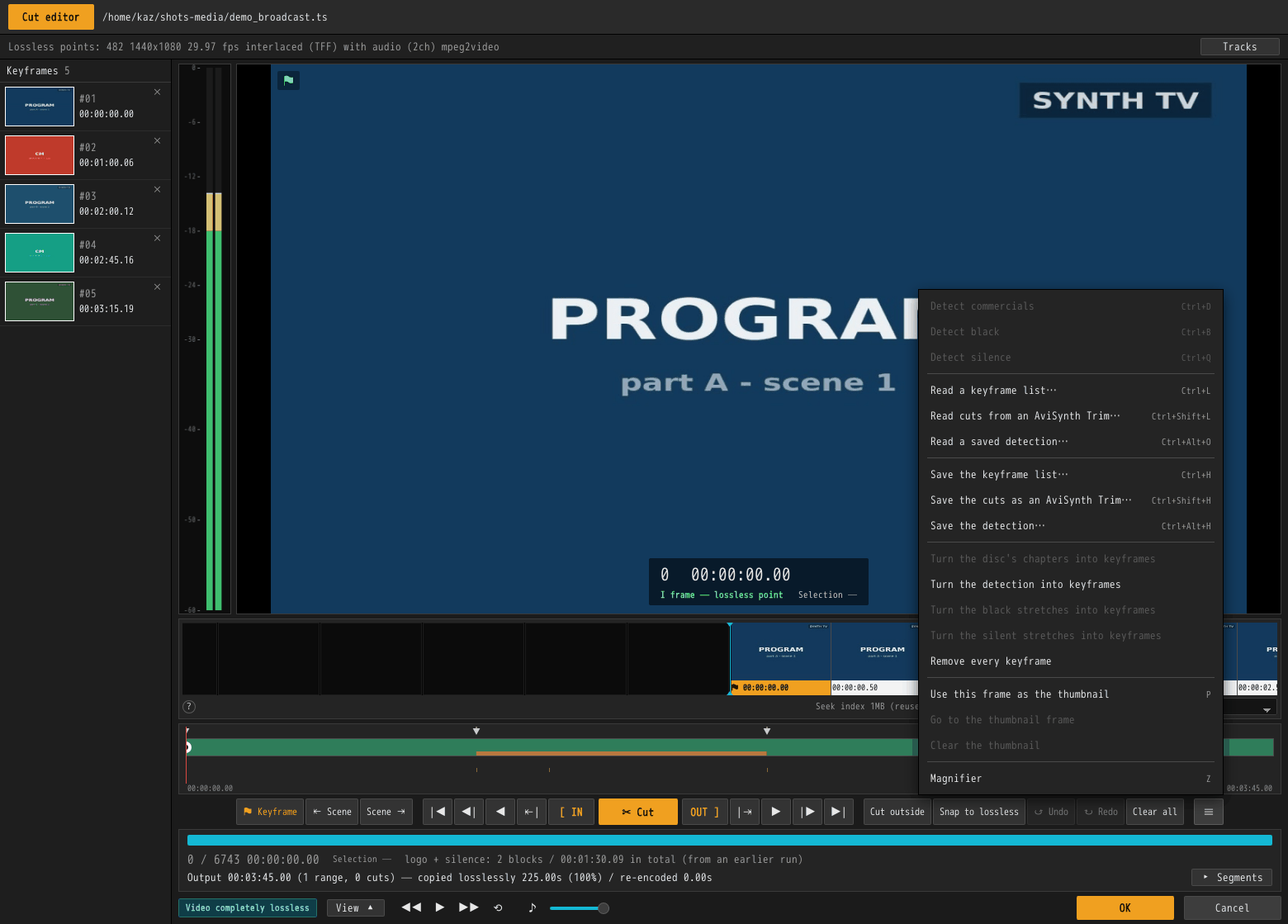
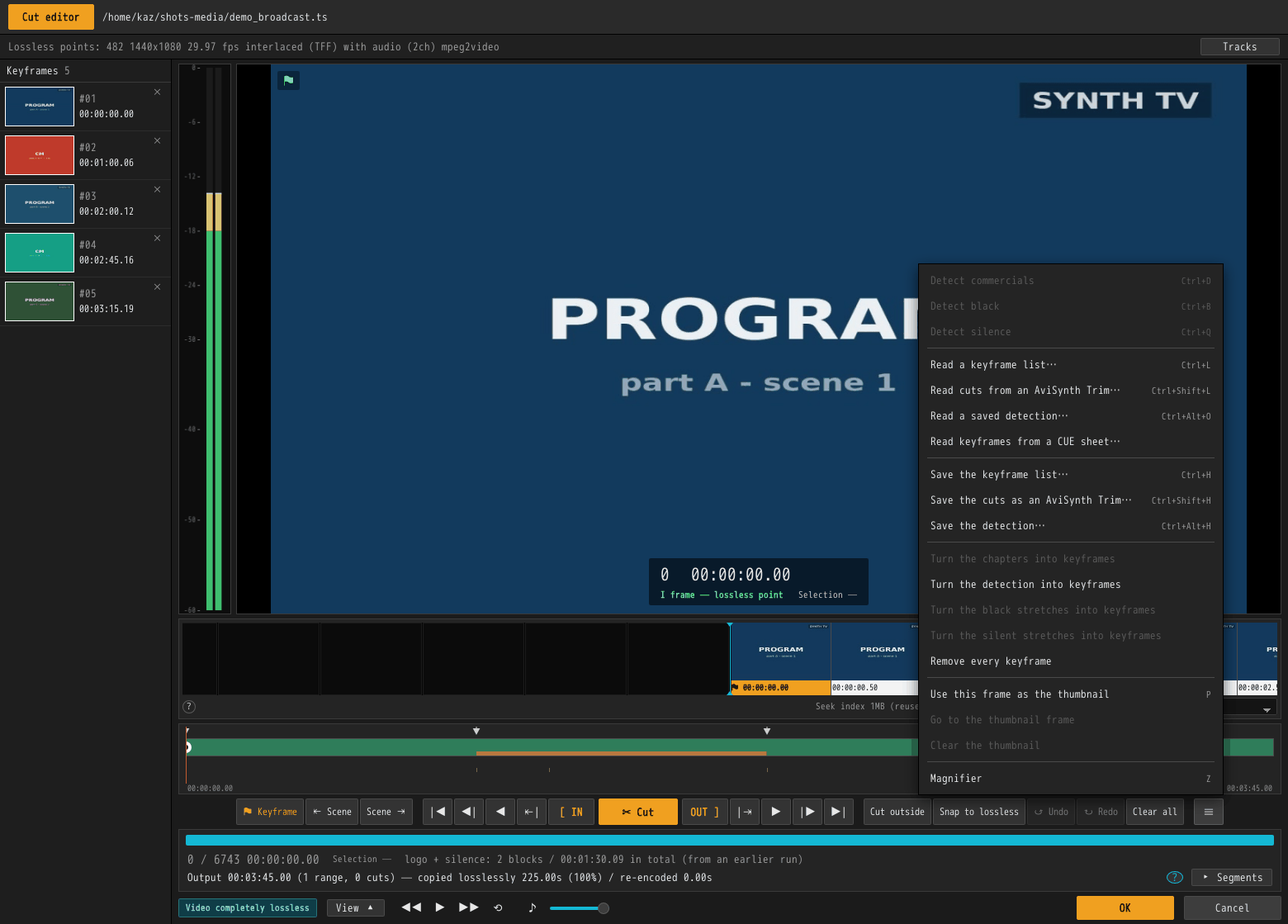
Put a file's own chapters down as marks, the way a disc's are
- an MP4's or a Matroska file's chapter list is read when it is opened
  (Source::chapters, Outline::chapters) and travels the way a disc's
  chapters do: put down as marks on a first visit to the cut editor,
  not where a mark file next to the recording was read, and carried
  into a cut of a row nobody opened. So a file cut again keeps the
  chapters it had, where they are still in what is kept
- the command line does the same, and lists them under marks
- ≡'s line is now 「チャプターをキーフレームにする」 / "Turn the chapters
  into keyframes", and is offered wherever the recording has chapters;
  usage-marks is retaken, with the CUE line in it as well

Refs #5

Changed region(s): [[0.7077, 0.2735, 0.9538, 0.3342], [0.7385, 0.3646, 0.8615, 0.4861]]

diff --git a/gui/src/i18n.js b/gui/src/i18n.js
@@ -234,7 +234,7 @@ const CATALOG = {
       "データ放送は録画の 1〜20% を占めるので、外せばその分だけ小さくなります。",
     "prefs.chapters": "MP4・MKV にチャプターを書く",
     "prefs.chaptersNote":
-      "残した区間の始まりごとにチャプターを打ちます。編集画面で打ったキーフレームのうち、" +
+      "残した区間の始まりごとにチャプターを打ちます。キーフレームのうち、" +
       "カットのあとに残ったものもチャプターになります。対象は .mp4・.m4v・.mov・.mkv・.webm です。" +
       "BDAV に書き出すときは、この設定に関係なくプレイリストにチャプターが入ります。",
     "prefs.verify": "出力後にベリファイする",
@@ -1311,7 +1311,7 @@ const CATALOG = {
     "keyframes.read": "キーフレーム {n} 個を {file} から読み込みました",
     "cue.read": "{file} のトラックの開始位置 {n} か所をキーフレームにしました",
     "cue.readFailed": "CUE シートを読み込めません: {e}",
-    "keyframes.chapters": "ディスクのチャプター {n} 個をキーフレームにしました",
+    "keyframes.chapters": "チャプター {n} 個をキーフレームにしました",
     "editor.more.title":
       "印の読み書き、ディスクのチャプター、キーフレームの全消去。" +
       "キーフレーム情報（.keyframe）は印の位置だけ、AviSynth スクリプト（.trim.avs）は残る区間そのもの、" +
@@ -1325,7 +1325,7 @@ const CATALOG = {
     "marks.load.cm": "CM 検出結果を読み込む",
     "marks.load.cue": "CUE シートからキーフレームを読み込む",
     "marks.readNone": "{file} には読み込めるものがありませんでした",
-    "editor.chapterKeys": "ディスクのチャプターをキーフレームにする",
+    "editor.chapterKeys": "チャプターをキーフレームにする",
     "editor.cmKeys": "CM 検出結果をキーフレームにする",
     // ≡ メニューの 2 行。{what} には「黒白の区間」「無音の区間」が入ります。
     "editor.flatKeys": "{what}をキーフレームにする",
@@ -1555,7 +1555,7 @@ const CATALOG = {
       "hundredth and a fifth of what a multiplex spends, so clearing this is what makes the file smaller.",
     "prefs.chapters": "Write chapters into MP4 and MKV",
     "prefs.chaptersNote":
-      "Puts a chapter where each kept range begins, and one on every keyframe set in the cut editor " +
+      "Puts a chapter where each kept range begins, and one on every keyframe " +
       "that survives the cut. For .mp4, .m4v, .mov, .mkv and .webm. A disc of recordings gets its " +
       "chapters in its playlist whatever this says.",
     "prefs.verify": "Check each file against the recording once it is written",
@@ -2586,7 +2586,7 @@ const CATALOG = {
     "keyframes.read": "Read {n} keyframe{n?s} from {file}",
     "cue.read": "Marked the start of {n} track{n?s} from {file}",
     "cue.readFailed": "Cannot read the CUE sheet: {e}",
-    "keyframes.chapters": "Read {n} chapter{n?s} off the disc as keyframes",
+    "keyframes.chapters": "Turned {n} chapter{n?s} into keyframes",
     "editor.more.title":
       "The mark files, the disc's chapters, and clearing the marks. A keyframe list (.keyframe) " +
       "is the marks alone, an AviSynth script (.trim.avs) is the ranges that survive, a saved " +
@@ -2600,7 +2600,7 @@ const CATALOG = {
     "marks.load.cm": "Read a saved detection…",
     "marks.load.cue": "Read keyframes from a CUE sheet…",
     "marks.readNone": "Nothing to read in {file}",
-    "editor.chapterKeys": "Turn the disc's chapters into keyframes",
+    "editor.chapterKeys": "Turn the chapters into keyframes",
     "editor.cmKeys": "Turn the detection into keyframes",
     "editor.flatKeys": "Turn the {what} stretches into keyframes",
     "editor.clearKeys": "Remove every keyframe",

diff --git a/gui/src/main.js b/gui/src/main.js
@@ -92,14 +92,15 @@ let pickedKeys = [];
 /// timeline -- so the one the list is holding is the same news arriving
 /// twice. See the `editor-open` handler.
 let markFileKind = null;
-/// The chapter points the disc this recording came off carries, on the
-/// stream's own clock. Put down when the recording is opened; kept because
-/// they are the one source of marks that cannot be asked for again -- the
-/// disc is not read a second time from in here. Empty for a plain file.
+/// The chapter points the recording came with, on the stream's own clock:
+/// the disc's index for a recording off a disc, and otherwise the file's own
+/// chapter list -- an MP4's or a Matroska file's. Put down when the recording
+/// is opened; kept so that the menu can put them down again after a clear.
+/// Empty for a file that has none, which is every broadcast `.ts`.
 let discChapters = [];
-/// Whether the disc's chapters are still to be put down on this visit: from
-/// the moment a first visit opens a disc title until the walk has finished
-/// and they are on the timeline. An OK in between used to hand the list an
+/// Whether those chapters are still to be put down on this visit: from the
+/// moment a first visit opens the recording until the walk has finished and
+/// they are on the timeline. An OK in between used to hand the list an
 /// edit with no marks in it, which the list then took at its word -- and the
 /// row lost the chapters it would have kept had nobody opened it at all.
 let chaptersDue = false;
@@ -6410,6 +6411,13 @@ async function openPath(picked, saved, side, name, chapters, dropPids, detected)
     const outline = await invoke("open_outline", { path: picked });
     if (overtaken()) return;
     src = outline;
+    // A recording that did not come off a disc brings its own chapters, if
+    // its container has any, and they are owed on the same terms a disc's
+    // are: on a first visit, and on the visit after one left early.
+    if (!discChapters.length && Array.isArray(src.chapters) && src.chapters.length) {
+      discChapters = src.chapters.filter((c) => Number.isFinite(c));
+      chaptersDue = (!saved || !!saved.chaptersDue) && discChapters.length > 0;
+    }
     shownName = named;
     inbound = false;
     tailSrc = null;

diff --git a/gui/src/app.js b/gui/src/app.js
@@ -200,10 +200,11 @@ function makeClip(found) {
     /// path cannot answer either. Null for an ordinary file.
     stem: typeof stem === "string" && stem ? stem : null,
     home: typeof home === "string" && home ? home : null,
-    /// The chapter points the disc's index carried, on the recording's own
-    /// clock. Held here rather than turned into marks on the spot: only the
-    /// editor knows where the container's clock begins, and it is the one
-    /// that owns marks. Empty for an ordinary file.
+    /// The chapter points the recording came with, on its own clock: the
+    /// disc's index carried them, or -- for a file, once it has been read --
+    /// its container did. Held here rather than turned into marks on the
+    /// spot: only the editor knows where the container's clock begins, and it
+    /// is the one that owns marks. Empty for a file with no chapter list.
     chapters: Array.isArray(chapters) ? chapters.filter((c) => Number.isFinite(c)) : [],
     /// Streams switched off when the disc was read, by PID.
     ///
@@ -1499,6 +1500,13 @@ async function runIndex(clip) {
   const was = cutsSig(clip);
   try {
     clip.info = await invoke("index_clip", { path: clip.path, keeps });
+    // A file's own chapter list, for a row that brought none off a disc: it
+    // is held the way a disc's chapters are, so that the row counts them and
+    // a cut of it nobody opened the editor on still writes them. See
+    // `marksOf`, and `openPath` in `main.js` for the editor's side.
+    if (!clip.chapters.length && Array.isArray(clip.info.chapters)) {
+      clip.chapters = clip.info.chapters.filter((c) => Number.isFinite(c));
+    }
     clip.state = "ready";
     clip.progress = 1;
     clip.phase = indexNote(clip);

diff --git a/gui/src/editor.html b/gui/src/editor.html
@@ -256,14 +256,14 @@
                 <span class="menu-key">Ctrl+Alt+H</span>
               </button>
               <div class="menu-sep"></div>
-              <!-- The disc's own chapter points, which a recording off a
-                   Japanese recorder frequently has the commercial breaks
-                   written into. Put down when the recording is opened, and
-                   here for afterwards: they are the one source of marks
-                   that cannot be asked for again once they have been
-                   cleared. Greyed on anything that is not a disc. -->
+              <!-- The chapter points the recording came with: a disc's own,
+                   which a recording off a Japanese recorder frequently has
+                   the commercial breaks written into, or an MP4's or a
+                   Matroska file's chapter list. Put down when the recording
+                   is opened, and here for afterwards: once cleared, nothing
+                   else puts them back. Greyed where there are none. -->
               <button class="menu-item" id="chapter-keys">
-                <span data-i18n="editor.chapterKeys">ディスクのチャプターをキーフレームにする</span>
+                <span data-i18n="editor.chapterKeys">チャプターをキーフレームにする</span>
               </button>
               <!-- The marks of a detection that is already on screen. Put
                    down when it lands, except onto a timeline that came up

diff --git a/rust/crates/cli/src/main.rs b/rust/crates/cli/src/main.rs
@@ -401,7 +401,7 @@ const HELP: &[(&str, &[(&str, &str)])] = &[
             (
                 "--no-chapters",
                 "Leave the chapter list out of an .mp4, .m4v, .mov or .mkv (otherwise one \
-                 where each kept range begins, and the disc's own)",
+                 where each kept range begins, and the recording's own)",
             ),
             (
                 "--sound-only",
@@ -1572,6 +1572,10 @@ fn run() -> Result<()> {
     );
     // Where the recorder set its chapters, in the recording's own seconds --
     // which is what the editor draws them at, and what `--cut` would take.
+    // A file's own chapter list where it did not come off a disc.
+    if chapters.is_empty() {
+        chapters = src.chapters.clone();
+    }
     if !chapters.is_empty() {
         let shown: Vec<String> = chapters
             .iter()
@@ -2696,6 +2700,14 @@ fn run() -> Result<()> {
     // carries them, and so does an MP4 or a Matroska file. Worked out before
     // the cut because the second kind is written into the file's header.
     let was = off_a_disc.as_ref();
+    // The chapters the recording came with, on the stream's own clock: the
+    // disc's index for a recording off a disc, and otherwise the container's
+    // own list -- an MP4 or a Matroska file cut again keeps the chapters it
+    // had, where they are still in what is kept.
+    let came_with: Vec<f64> = match was {
+        Some(e) => e.marks.iter().map(|m| e.start + m).collect(),
+        None => src.chapters.clone(),
+    };
     // Where each kept range begins is where the cuts are: the one place a
     // viewer would want to skip to.
     let mut at_out = 0.0;
@@ -2703,15 +2715,15 @@ fn run() -> Result<()> {
     let mut chapters = Vec::new();
     for plan in &plans {
         marks.push(at_out);
-        // And the chapters of the disc it came off, where they are still
-        // in what is kept. A disc read and written straight back used to
+        // And the chapters it came with, where they are still in what is
+        // kept. A disc read and written straight back used to
         // come out with one chapter where it had gone in with a dozen.
         // Off the stream's clock the way the editor takes them off it
         // (`applyDiscChapters`), a mark just ahead of the first picture
         // moved onto it.
         let first = plans.first().map_or(0.0, |p| p.t_in);
-        for m in was.map_or(&[][..], |e| &e.marks[..]) {
-            let s = was.map_or(0.0, |e| e.start) + m - src.start_time;
+        for m in &came_with {
+            let s = m - src.start_time;
             let s = if s < first && s >= first - 0.5 { first } else { s };
             if s >= plan.t_in && s < plan.t_out {
                 chapters.push(at_out + (s - plan.t_in));
@@ -2733,8 +2745,8 @@ fn run() -> Result<()> {
     };
     let mut before = plans.last();
     // Where the first recording's own pictures end: the end of the
-    // output, or where it gives way to the second. The disc's chapters
-    // are all the first recording's, and one in the stretch a crossing
+    // output, or where it gives way to the second. The chapters it came
+    // with are all the first recording's, and one in the stretch a crossing
     // overlaps is past that point -- a dissolve took the last second of
     // the first range, and a chapter in that second came out a second
     // into the recording after it. Nor is a chapter a moment before the

diff --git a/rust/crates/core/src/lib.rs b/rust/crates/core/src/lib.rs
@@ -554,6 +554,11 @@ pub struct Source {
     pub duration: f64,
     /// Container start time. MPEG-TS does not begin at zero.
     pub start_time: f64,
+    /// The chapter points the container itself carries, in seconds on the
+    /// stream's own clock (not rebased by `start_time`, the same as a disc's
+    /// chapters). Matroska and MP4 have a list of them; a transport stream
+    /// has none, and a disc's are in its index, not in the stream.
+    pub chapters: Vec<f64>,
     pub points: Vec<AccessPoint>,
     /// Whether the index could speak for the leading pictures. A precomputed
     /// index cannot; call [`index::refine_leading`] before planning.
@@ -1200,6 +1205,7 @@ fn assemble(
         dropped,
         duration,
         start_time,
+        chapters,
         byte_seekable,
         on_a_ts,
         mut joins,
@@ -1300,6 +1306,7 @@ fn assemble(
         video,
         duration,
         start_time,
+        chapters,
         points,
         leading_known: idx.leading_known,
         index_name,
@@ -1342,6 +1349,11 @@ pub struct Outline {
     pub duration: f64,
     /// Container start time. MPEG-TS does not begin at zero.
     pub start_time: f64,
+    /// The chapter points the container itself carries, in seconds on the
+    /// stream's own clock (not rebased by `start_time`, the same as a disc's
+    /// chapters). Matroska and MP4 have a list of them; a transport stream
+    /// has none, and a disc's are in its index, not in the stream.
+    pub chapters: Vec<f64>,
     pub byte_seekable: bool,
     /// Whether a track's `pid` is really a PID. See [`Source::on_a_ts`].
     pub on_a_ts: bool,
@@ -1386,6 +1398,7 @@ impl Outline {
             dropped: self.dropped,
             duration: self.duration,
             start_time: self.start_time,
+            chapters: self.chapters,
             byte_seekable: self.byte_seekable,
             on_a_ts: self.on_a_ts,
             points: Vec::new(),
@@ -1454,6 +1467,15 @@ fn outline_of(path: &str) -> Result<(Outline, input::Demux)> {
         .name()
         .split(',')
         .any(|n| BYTE_SEEKABLE.contains(&n.trim()));
+    // The container's own chapter list, where it has one. Only the starts:
+    // they become marks, and a mark is an instant.
+    let mut chapters: Vec<f64> = ictx
+        .chapters()
+        .map(|c| c.start() as f64 * f64::from(c.time_base()))
+        .filter(|t| t.is_finite())
+        .collect();
+    chapters.sort_by(f64::total_cmp);
+    chapters.dedup();
     // Whether a stream's id is a PID. See [`one_track_per_pid`].
     let on_a_ts = ictx
         .format()
@@ -1957,6 +1979,7 @@ fn outline_of(path: &str) -> Result<(Outline, input::Demux)> {
         dropped,
         duration,
         start_time,
+        chapters,
         byte_seekable,
         on_a_ts,
         // Filled by [`outline_with_head`] alone. See [`first_picture`].

diff --git a/gui/src-tauri/src/lib.rs b/gui/src-tauri/src/lib.rs
@@ -373,6 +373,11 @@ struct SourceInfo {
     /// written on the stream's own clock, and this is what puts them on the
     /// timeline the editor draws.
     start_time: f64,
+    /// The chapter points the file itself carries -- an MP4's or a Matroska
+    /// file's own list -- on the stream's own clock, like a disc's. The
+    /// editor puts them down as marks on a first visit where the row brought
+    /// no disc chapters with it. See [`smartcut_core::Source::chapters`].
+    chapters: Vec<f64>,
 }
 
 /// One row of the clip list, once the recording behind it has been read.
@@ -416,6 +421,9 @@ struct ClipInfo {
     /// as marks. A row nobody opens the editor on still has to hand them to
     /// its output. See [`SourceInfo::start_time`] and `marksOf` in `app.js`.
     start_time: f64,
+    /// The file's own chapter points, for a row that did not come off a
+    /// disc. See [`SourceInfo::chapters`].
+    chapters: Vec<f64>,
     /// The pictures, where this read produced them. Present only on the
     /// one-read path -- a recording on a share, where reading it twice would
     /// be transferring it twice -- and `None` where the list is to ask for
@@ -1005,6 +1013,7 @@ async fn open_outline(path: String) -> Result<SourceInfo, String> {
             unusable_points: 0,
             head: o.head,
             start_time: o.start_time,
+            chapters: o.chapters.clone(),
         })
     })
     .await
@@ -1263,6 +1272,7 @@ fn info_of(src: &Source) -> SourceInfo {
         // not asked for.
         head: None,
         start_time: src.start_time,
+        chapters: src.chapters.clone(),
     }
 }
 
@@ -3099,6 +3109,7 @@ fn clip_info_of(path: &str, src: &Source, cached: bool, seconds: f64) -> ClipInf
         // Where the material actually begins; nothing before it decodes.
         first_point: src.points.first().map_or(0.0, |p| p.time),
         start_time: src.start_time,
+        chapters: src.chapters.clone(),
         pictures: None,
         cached,
         seconds,

diff --git a/docs/user-guide/cli.ja.md b/docs/user-guide/cli.ja.md
@@ -118,7 +118,7 @@ smartcut a.ts --join b.ts --transition dissolve --transition-seconds 2 \
 | `--aac auto\|mpeg2\|mpeg4` | 書き出す AAC をどちらの規格として記録するか。既定の `auto` は録画に合わせます（放送なら MPEG-2 AAC） |
 | `--audio-es` | 音声を素のファイルとしても書き出します。出力と同じ名前で、AAC のときだけです |
 | `--poster 時刻` | 録画のその時刻のフレームを、出力ファイルのカバー画像（サムネイル）として埋め込みます。`.mp4` `.m4v` では `covr`、`.mkv` では `cover.jpg` という添付ファイルになります。ほかのコンテナでは無視し、その旨を表示します（`.mov` には FFmpeg が `covr` を書きません）。録画より後ろの時刻なら、最後のフレームを使ってその旨を表示します。インターレースの録画は片方のフィールドから作ります。`--sound-only` とは併用できません |
-| `--no-chapters` | チャプターを入れません。省くと `.mp4`・`.m4v`・`.mov`・`.mkv`・`.webm` には、残した区間の先頭ごと（`--join` なら各録画の先頭にも）にチャプターが入ります。ディスクから読んだ録画なら、カットのあとに残ったディスクのチャプターも入ります。位置は `--bdav` がプレイリストに書くものと同じで、`--bdav` のほうはこのオプションの影響を受けません。区間が 1 つだけのカットには入りません。`--sound-only` とは併用できません |
+| `--no-chapters` | チャプターを入れません。省くと `.mp4`・`.m4v`・`.mov`・`.mkv`・`.webm` には、残した区間の先頭ごと（`--join` なら各録画の先頭にも）にチャプターが入ります。録画にもともとあるチャプター（ディスクから読んだ録画ならディスクのチャプター、`.mp4` や `.mkv` ならファイルのチャプター）も、カットのあとに残ったものは入ります。位置は `--bdav` がプレイリストに書くものと同じで、`--bdav` のほうはこのオプションの影響を受けません。区間が 1 つだけのカットには入りません。`--sound-only` とは併用できません |
 | `--sound-only` | 映像を書かず、音声だけのファイルを出力します。カットも結合も継ぎ目のフェードもそのまま入ります。映像は読みも書きもしないので短時間で終わります。拡張子で形式が決まります（`.aac` `.ac3` `.eac3` `.mp2` `.mp3` `.dts` `.m4a` `.mka` `.wav`）。リニア PCM なら `.aiff` も使えます。録画の音声が FLAC・Opus・TrueHD なら、それぞれ `.flac` `.opus` `.thd` も使えます。`.wav` は、`--audio-codec` でほかのコーデックを指定しないかぎりリニア PCM で書きます。拡張子の形式に入らない音声のときは、書き始める前にエラーで止まります。4K 放送の LATM 形式の AAC を `.aac` や `.m4a` に書くときは、通常の AAC に再エンコードし、その旨を表示します。元の音声フレームのまま残すなら `.mka` にします。音声トラックは 1 本だけで、`--master` で指定した録画のトラックを基準にします。`--bdav`・`--video-share`・`--audio-es` のほか、映像のある出力にしか効かない `--tables`・`--data-broadcast`・`--no-data-broadcast`・`--subtitles`・`--drop-subpicture`・`--vc1-quant`・`--clean-joins`・`--no-open-gop`・`--transition-image`・`--no-chapters` とも併用できません。音声の無い録画を結合したときは、その録画の分を飛ばし、その旨を表示します |
 | `--audio-fade 秒数` | 継ぎ目の手前で音を下げ、継ぎ目の先で戻します。0〜10 秒、既定は 0（フェードなし）|
 | `--join-fade-out 秒数` | クリップの終わりで音を消すまでの秒数。`--join` でつなぐときの継ぎ目に掛かります。0〜10 秒、既定は 0 |

diff --git a/docs/user-guide/cli.md b/docs/user-guide/cli.md
@@ -121,7 +121,7 @@ copy, so **the whole track is re-encoded**.
 | `--aac auto\|mpeg2\|mpeg4` | Which flavour of AAC the frames SmartCut writes announce themselves as. `auto`, the default, follows the recording — MPEG-2 AAC for a broadcast |
 | `--audio-es` | Also write the sound out as a bare stream beside the output. AAC only |
 | `--poster TIME` | Carry the picture at `TIME` into the recording as the file's cover (thumbnail): `covr` in `.mp4` and `.m4v`, an attachment named `cover.jpg` in `.mkv`. Other containers have no place for one (FFmpeg writes no `covr` into a `.mov`), and the run says it is ignored. A time past the end takes the last picture, with a note. An interlaced recording's cover is taken from one field. Not with `--sound-only` |
-| `--no-chapters` | Leave the chapter list out. Otherwise an `.mp4`, `.m4v`, `.mov`, `.mkv` or `.webm` gets one chapter where each kept range begins (and where each `--join` recording begins), plus the disc's own chapters that survive the cut when the recording came off one — the same points `--bdav` writes into a playlist, which this does not change. A cut with only one range and nothing else gets no chapter list. Not with `--sound-only` |
+| `--no-chapters` | Leave the chapter list out. Otherwise an `.mp4`, `.m4v`, `.mov`, `.mkv` or `.webm` gets one chapter where each kept range begins (and where each `--join` recording begins), plus the chapters the recording came with that survive the cut — the disc's own for a recording off one, otherwise the chapter list an `.mp4` or `.mkv` input already has — the same points `--bdav` writes into a playlist, which this does not change. A cut with only one range and nothing else gets no chapter list. Not with `--sound-only` |
 | `--sound-only` | Write the sound and no pictures: the ranges, the joins and the fades exactly as they would be inside the video, and nothing read or written for the frames. `-o` names the file and its extension picks the container — `.aac`, `.ac3`, `.eac3`, `.mp2`, `.mp3`, `.dts`, `.m4a`, `.mka`, or `.wav`, which is written as linear PCM unless `--audio-codec` names another codec. `.aiff` also takes linear PCM, and `.flac`, `.opus` and `.thd` take a recording's own FLAC, Opus or TrueHD. A sound the container has no room for stops the run before anything is written. A 4K broadcast's LATM-framed AAC asked for as `.aac` or `.m4a` is re-encoded as plain AAC, and the run says so; `.mka` keeps its own frames. One sound track, taken from the recording `--master` names, and not with `--bdav`, `--video-share` or `--audio-es`, nor with what only a file with pictures has: `--tables`, `--data-broadcast`, `--no-data-broadcast`, `--subtitles`, `--drop-subpicture`, `--vc1-quant`, `--clean-joins`, `--no-open-gop`, `--transition-image` or `--no-chapters`. A recording joined on with no sound is left out of the file, and the run says so |
 | `--audio-fade SECONDS` | Take the level down into each seam and bring it back out over that many seconds. 0 to 10; 0, no fade, is the default |
 | `--join-fade-out SECONDS` | How long the sound takes to leave at the end of each clip, where `--join` writes several into one file. 0 to 10; 0 is the default |

diff --git a/docs/user-guide/gui.md b/docs/user-guide/gui.md
@@ -753,8 +753,11 @@ three seconds for either pass out of the box, and -50 dB for the sound.
   the output.
 
 Marks can also arrive without your placing any: from a detection, from a
-`.keyframe` or a saved detection next to the recording, and — for a recording
-opened off a **disc** — from the chapters the recorder itself set.
+`.keyframe` or a saved detection next to the recording, and from the chapters
+the recording came with — the ones the recorder set, for a recording opened off
+a **disc**, and the file's own chapter list for an `.mp4` or an `.mkv` that has
+one. Chapters are put down only the first time the recording is opened, and not
+where a mark file next to it was read instead.
 
 ### Reading the marks in, and writing them down
 
@@ -772,7 +775,7 @@ the marks.
 | **Save the keyframe list…** | Writes the marks beside the recording (`Ctrl+H`) |
 | **Save the cuts as an AviSynth Trim…** | Writes the surviving ranges as `Trim` calls (`Ctrl+Shift+H`) |
 | **Save the detection…** | Writes the detection now on screen (`Ctrl+Alt+H`). Greyed where nothing has been detected |
-| **Turn the disc's chapters into keyframes** | Puts them back after a clear. Greyed on anything but a disc |
+| **Turn the chapters into keyframes** | Puts the disc's or the file's own chapters back after a clear. Greyed where the recording has none |
 | **Turn the detection into keyframes** | Marks the detection now on screen. Greyed where nothing has been detected |
 | **Turn the blank stretches into keyframes** | Marks both ends of every blank stretch now on screen. Named after the shades actually there — *black* or *white* where only one of them is |
 | **Turn the silent stretches into keyframes** | Marks both ends of every silent stretch now on screen. Greyed where nothing has been detected |
@@ -1639,9 +1642,10 @@ standing answer, not something a project carries.
 
 **Write chapters into MP4 and MKV** gives an `.mp4`, `.m4v`, `.mov`, `.mkv`
 or `.webm` a chapter list: one chapter where each kept range begins, and one on
-every keyframe that survives the cut — the same points a disc's playlist gets
-(see [Writing a BDAV disc](#writing-a-bdav-disc)). Joined files get one where
-each clip begins as well. **On** to begin with. A cut that keeps one range and
+every keyframe that survives the cut — an input's own chapters among them, since
+they arrive as keyframes. The same points a disc's playlist gets (see
+[Writing a BDAV disc](#writing-a-bdav-disc)). Joined files get one where each
+clip begins as well. **On** to begin with. A cut that keeps one range and
 has no marks in it gets no chapter list at all, since a single chapter covering
 the whole file tells a player nothing. A disc gets its chapters whatever this
 says, and a `.ts` has nowhere to put them. Only here, like the box above.
